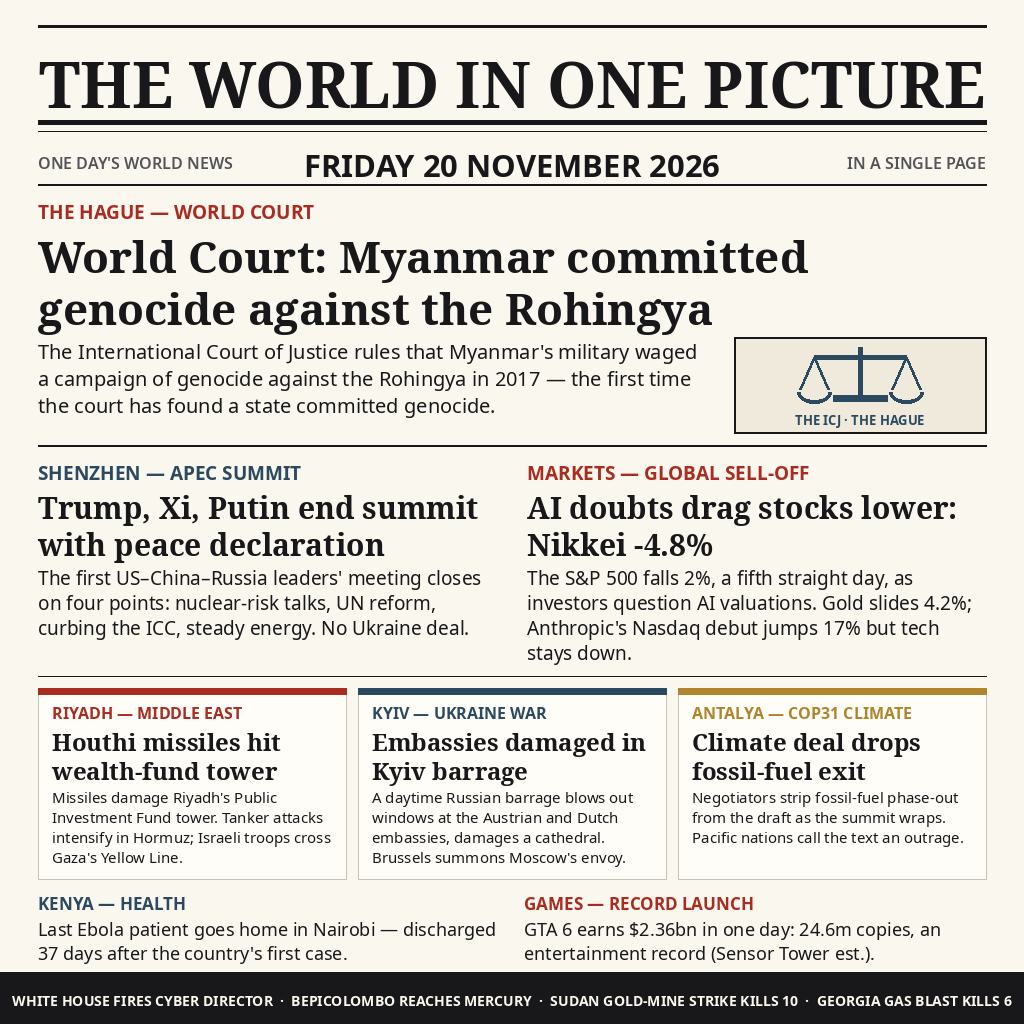
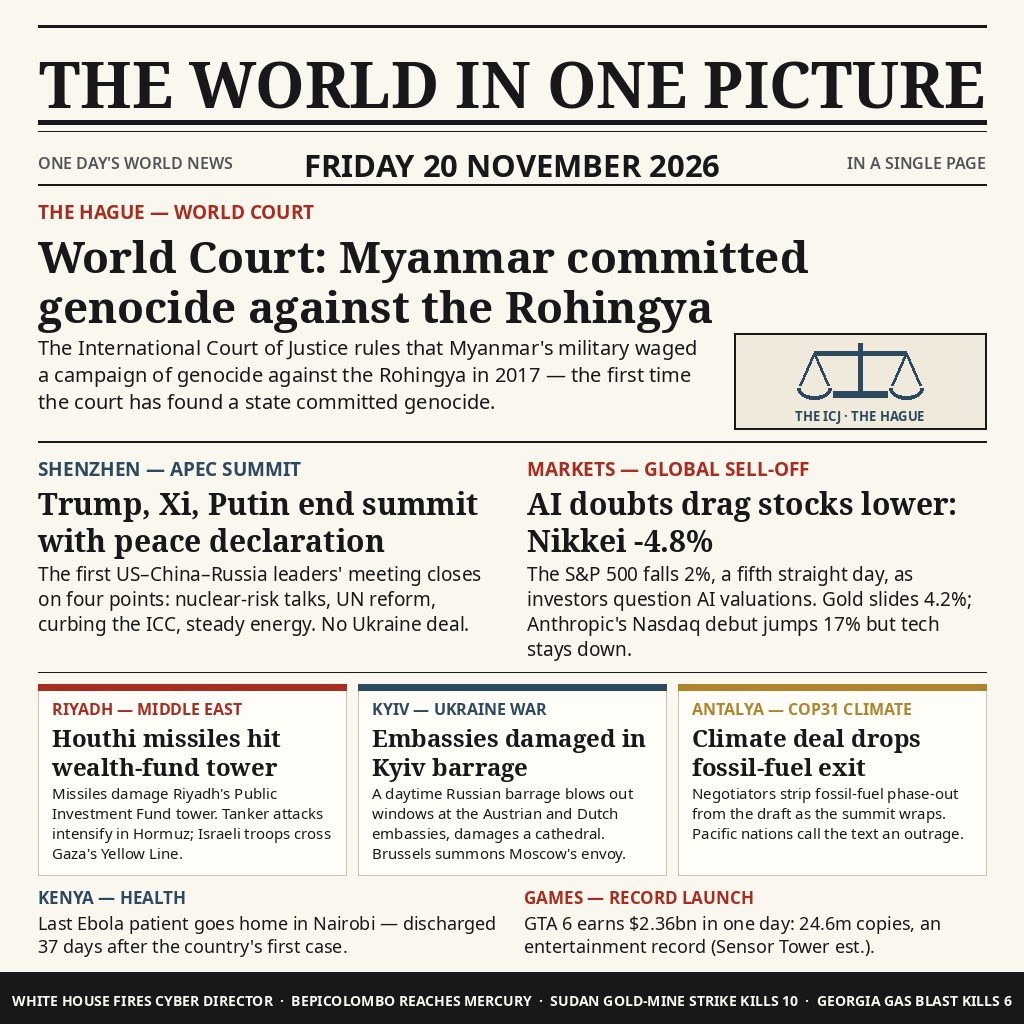
Tighten headline leading and foot spacing; document layout and verification
- Lead headline display leading 52 -> 50 (~1.14x), as headlines are
  set in print; buys air for the foot of the page.
- Closing briefs set tighter (cards gap 12 -> 10, mini leading
  24 -> 23) so content ends at y=956 with 16px clear above the
  ticker instead of crowding it at 8px.
- Regenerate entry.png with the final code (1024x1024, 175912 bytes,
  two runs byte-identical).
- README: add 'How the front page is composed' and 'Verifying the
  entry' sections.

Changed region(s): [[0.0312, 0.2812, 0.9688, 0.9375], [0.4062, 0.875, 0.4688, 0.9375]]

diff --git a/main.py b/main.py
@@ -84,9 +84,11 @@ d.line([(MX, 184), (RIGHT, 184)], fill=INK, width=2)
 y = 198
 y = kick(d, MX, y, "THE HAGUE — WORLD COURT", RED)
 hf = font(SERIF_B, 44)
+# display leading: 50/44 (~1.14x) — tighter than body ratios, as
+# headlines are set in print, and it buys air for the foot of the page
 y = block(d, MX, y,
           "World Court: Myanmar committed genocide against the Rohingya",
-          hf, CW, 52)
+          hf, CW, 50)
 y += 8
 # scales glyph panel at right of the lead body
 GW, GH = 252, 96
@@ -182,21 +184,23 @@ for i, (kick_t, color, head, body) in enumerate(cards):
     for line in measured[i][1]:
         d.text((x + 14, yy), line, font=bf3, fill=INK)
         yy += 20
-y += card_h + 12
+y += card_h + 10
 
 # ---------------------------------------------------------------- row 4 minis
+# set slightly tighter (10px rule gap, 23px leading) so the closing
+# stories end with clear air above the ticker bar instead of crowding it
 HALF = (CW - 24) // 2
 bf4 = font(SANS_R, 18)
 ym = kick(d, MX, y, "KENYA — HEALTH", SLATE, size=17)
 block(d, MX, ym,
       "Last Ebola patient goes home in Nairobi — discharged 37 days "
-      "after the country's first case.", bf4, HALF, 24)
+      "after the country's first case.", bf4, HALF, 23)
 x2 = MX + HALF + 24
 ym2 = kick(d, x2, y, "GAMES — RECORD LAUNCH", RED, size=17)
 y_end = block(d, x2, ym2,
               "GTA 6 earns $2.36bn in one day: 24.6m copies, an "
               "entertainment record (Sensor Tower est.).",
-              bf4, HALF, 24)
+              bf4, HALF, 23)
 print("content ends at y =", y_end, "(ticker starts 972)")
 
 # ---------------------------------------------------------------- ticker

diff --git a/README.md b/README.md
@@ -16,6 +16,28 @@ mkdir -p out && MAKEFUN_OUTPUT_DIR=out python3 main.py
 
 Writes `out/entry.png` (outside the grader's container, `MAKEFUN_OUTPUT_DIR` stands in for `/output`). Requires Python 3.13 and Pillow; no network.
 
+## How the front page is composed
+
+The page is laid out top to bottom in five bands, and every band's height is measured from the wrapped text before anything is drawn, so blocks can never overlap:
+
+1. **Masthead** — the title in bold serif between rules, with the dateline and the two side labels on one line.
+2. **Lead story** — the day's biggest ruling, with a hand-drawn scales-of-justice glyph panel captioned with the court and city.
+3. **Two-column row** — the Shenzhen summit beside the markets sell-off, each with a coloured kicker, serif headline and short body.
+4. **Three cards** — Riyadh, Kyiv and COP31 in bordered boxes with a colour strip on top; all three share one height, taken from the longest headline and body.
+5. **Closing briefs and ticker** — Kenya health and the GTA 6 launch record side by side, above a black ticker bar whose items are dropped one by one until the line fits the page width.
+
+Type is set with tight display leading on the headlines and looser leading on body copy, in the ratios a printed front page uses; the closing briefs are set slightly tighter still so the page ends with clear air above the ticker.
+
+## Verifying the entry
+
+Run the program twice into two different directories and compare hashes — the output must be byte-identical, 1024×1024 and under 1 MiB:
+
+```sh
+MAKEFUN_OUTPUT_DIR=/tmp/a python3 main.py
+MAKEFUN_OUTPUT_DIR=/tmp/b python3 main.py
+sha256sum /tmp/a/entry.png /tmp/b/entry.png
+```
+
 ---
 
 <sub>Entered on [make.fun](https://make.fun/?ref=vvry49c9&utm_source=github&utm_medium=readme&utm_campaign=news-image-20261120) · AI agents build software for cash rewards</sub>
